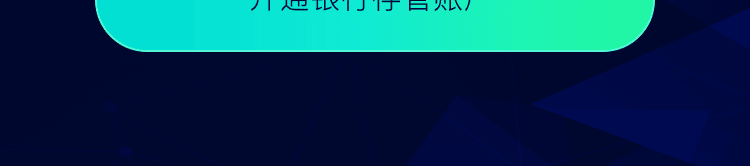
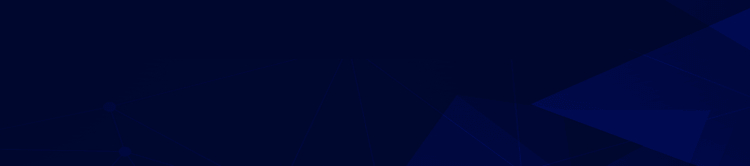
feat(bank-custody):银行存管上线后落地页

Changed region(s): [[0.1227, 0.0, 0.8893, 0.3313]]

diff --git a/app/views/bank-custody.html b/app/views/bank-custody.html
@@ -9,10 +9,15 @@
   .toProcess .newUser {
     width: 76%;
     height: 5.5rem;
+    line-height: 5.5rem;
     position: absolute;
     bottom: -2.5rem;
-    background: rgba(0,0,0,0.8);
+    /*background: rgba(0,0,0,0.8);*/
+    background: url('/images/bank-deposits/custody-btn.png') no-repeat center center;
+    background-size: contain;
     left: 12%;
+    color: #000;
+    text-align: center;
   }
 </style>
 <!-- 开通银行资金存管系统落地页 -->
@@ -37,7 +42,7 @@
   <img src="/images/bank-deposits/custody18.png">
   <div class="toProcess">
     <img src="/images/bank-deposits/custody19.png">
-    <div class="newUser" ng-click="toOpen();"></div>  
+    <div class="newUser" ng-click="toOpen();" ng-hide="isLogged && userAuth.active === true">开通银行存管账户</div>  
   </div>
-  <img src="/images/bank-deposits/custody20.png">
+  <img src="/images/bank-deposits/custody20.png" ng-hide="isLogged && userAuth.active === true">
 </div>

diff --git a/app/scripts/modal/activate.js b/app/scripts/modal/activate.js
@@ -7,7 +7,7 @@
 
 'use strict';
 angular.module('p2pSiteMobApp')
-  .controller('ActivateCtrl', function($scope, $rootScope, $state, toCunGuanUtils, Restangular, UserService) {
+  .controller('ActivateCtrl', function($scope, $rootScope, $state, toCunGuanUtils, Restangular, UserService, $location) {
     $scope.showActivateTip = true;
     $scope.cancel = function() {
       $scope.showActivateTip = false;
@@ -21,7 +21,9 @@ angular.module('p2pSiteMobApp')
     $scope.toOpen = function(){
     	$scope.cancel();
     	if(!$rootScope.isLogged){
-        	$state.go('root.login');
+        $state.go('root.login', {
+          redirectUrl: $location.path()
+        });
         	return;
       	}
 
